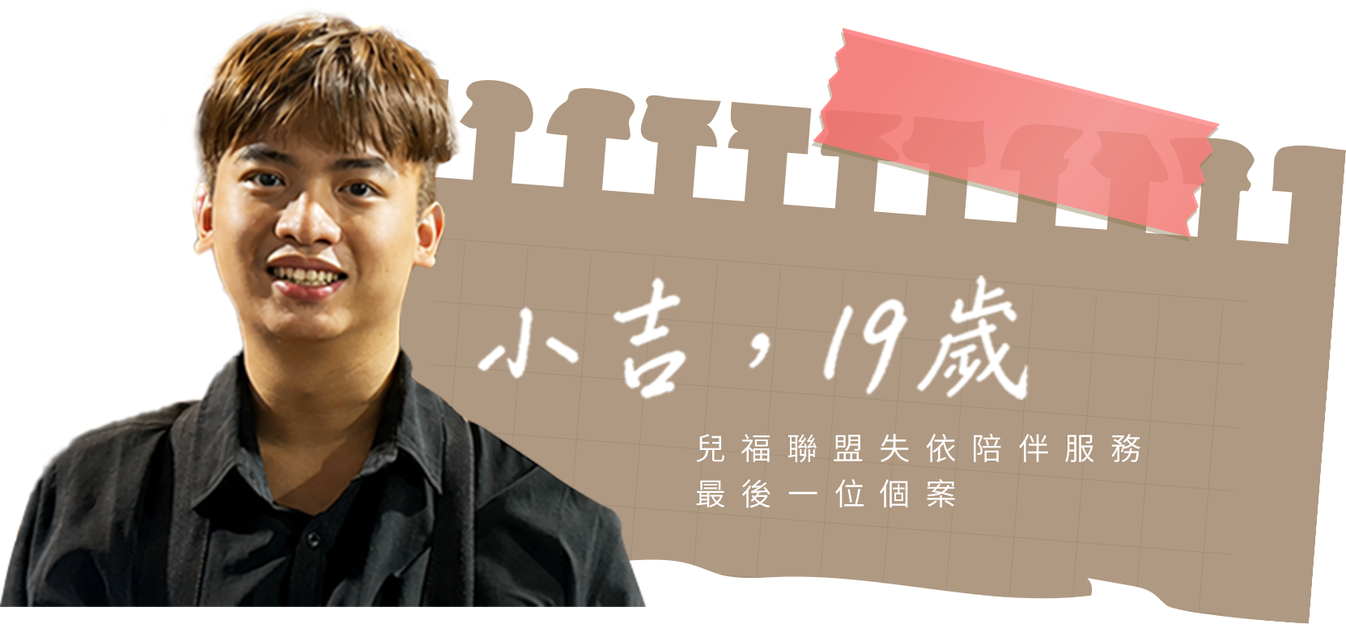
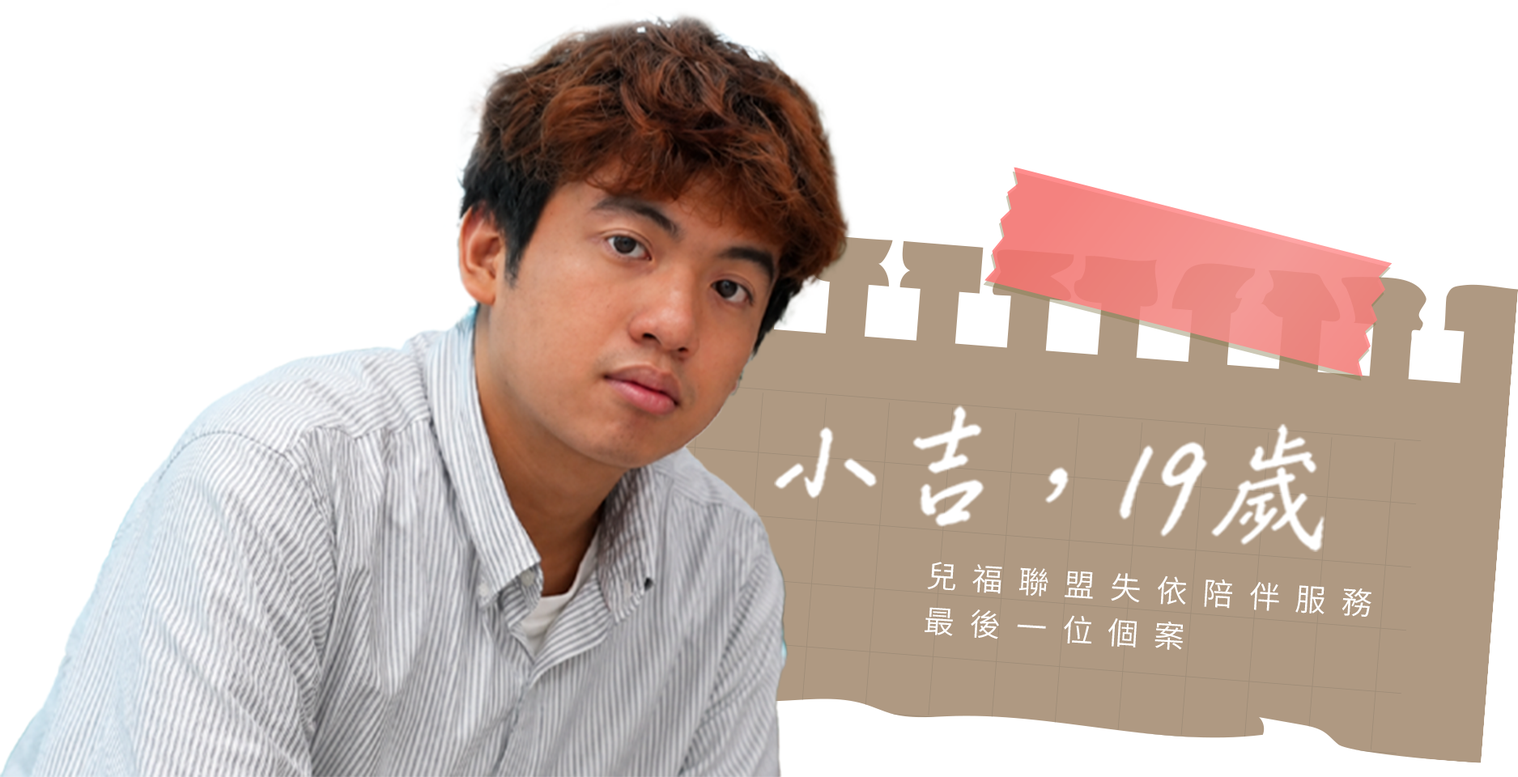
feat(flyfree): deploy v4 (2026-06-25 16:18 source)
- sync latest OD index.html (expanded content, 16 data-file photos) + assets
- light-compressed: 99MB → 51MB; 0 broken photos

diff --git a/flyfree/index.html b/flyfree/index.html
@@ -175,7 +175,7 @@ section{position:relative}
   max-width:22ch;text-shadow:0 6px 50px rgba(0,0,0,.7)}
 .cut__quote cite{display:block;margin-top:22px;font-style:normal;font-size:16px;letter-spacing:.18em;color:var(--accent-2)}
 /* 曙光擦除：災難→復原的轉場高潮（暖光由下而上抹過、風暴退場、暗轉亮）。單一變數 --dp(0→1) 由捲動驅動 */
-.cut--pivot{--storm:calc(.62*(1 - var(--dp,0)))}
+.cut--pivot{--storm:calc(.62*(1 - var(--dp,0)));height:57vh;min-height:360px}
 .cut--pivot .dawn-wipe{position:absolute;inset:0;z-index:3;pointer-events:none;will-change:transform;
   transform:translateY(calc((1 - var(--dp,0)) * 100%));
   background:linear-gradient(0deg,#f7f1e7 0%,#f7f1e7 32%,rgba(247,241,231,.94) 55%,rgba(247,241,231,.5) 72%,rgba(247,241,231,.16) 87%,transparent 100%)}
@@ -620,7 +620,7 @@ footer .top-link:hover{border-color:var(--accent)}
   <a href="#s5"><span>孝慈十年磨一劍</span></a>
   <a href="#dataviz"><span>17年的軌跡</span></a>
   <a href="#feature"><span>養出「悲復力」</span></a>
-  <a href="#qa"><span>風災Q&A</span></a>
+  <a href="#qa"><span>風災Q&amp;A</span></a>
 </nav>
 
 <style>
@@ -789,7 +789,7 @@ body.at-hero #cnav{opacity:0!important;pointer-events:none!important}body.at-her
   <div class="photo cut__img" data-speed="0.5" data-cap="981015陸軍官校的玩具圖書館.JPG"><div class="grain"></div><div class="vignette"></div></div>
   <div class="dawn-wipe" aria-hidden="true"></div>
   <div class="dawn-bloom" aria-hidden="true"></div>
-  <div class="cut__quote"><div class="reveal"><img loading="lazy" decoding="async" class="cut-quote-img reveal" src="assets/titles/首頁-繪本與教具.png" alt="帶著繪本與教具，在收容所裡為孩子撐起一塊秩序。" style="display:block;width:100%;max-width:min(94%,520px);height:auto;margin:0 auto;filter:brightness(0) invert(1) drop-shadow(0 2px 8px rgba(0,0,0,.55))">
+  <div class="cut__quote"><div class="reveal"><img loading="lazy" decoding="async" class="cut-quote-img reveal" src="assets/titles/小標題-繪本與教具.png" alt="帶著繪本與教具，在收容所裡為孩子撐起一塊秩序。" style="display:block;width:100%;max-width:min(94%,520px);height:auto;margin:0 auto;filter:brightness(0) invert(1) drop-shadow(0 2px 8px rgba(0,0,0,.55))">
     <cite style="color:#fff;text-shadow:0 2px 8px rgba(0,0,0,.55)">兒盟・受災兒童服務</cite></div></div>
 </section>
 
@@ -798,10 +798,10 @@ body.at-hero #cnav{opacity:0!important;pointer-events:none!important}body.at-her
 
 <!-- ③-1 小吉 -->
 <article class="story block" id="s1" data-od-id="story-1">
-  <div class="wrap narrow story__head">
+  <div class="wrap narrow story__head" style="padding-top: 0px;">
     <img class="profile-img reveal" data-od-id="profile-1" src="assets/profiles/小吉_profile.png" alt="小吉 個案小檔案">
     <img loading="lazy" decoding="async" class="story-title-img reveal d1" src="assets/titles/小吉-文章標題@2x.png" alt="衝突摩擦長出親情，沒有哆啦A夢，他卻有「大雄」來幫忙">
-    <div class="video-chip reveal d1"><span class="play"><svg viewBox="0 0 24 24"><path d="M8 5v14l11-7z"></path></svg></span>觀看小吉的 10 秒短片　<em>影片連結待補</em></div>
+    <div class="reveal d1" style="margin:34px auto 32px;max-width:720px;aspect-ratio:16/9;border-radius:12px;overflow:hidden;position:relative;background:linear-gradient(135deg,#1c1f24,#0c0e11);border:1px solid var(--border-soft);box-shadow:0 22px 52px rgba(0,0,0,.4);display:flex;align-items:center;justify-content:center;cursor:pointer"><span style="width:76px;height:76px;border-radius:50%;background:rgba(201,100,66,.94);display:flex;align-items:center;justify-content:center;box-shadow:0 10px 26px rgba(0,0,0,.45)"><svg viewBox="0 0 24 24" width="32" height="32" fill="#fff" style="margin-left:5px"><path d="M8 5v14l11-7z"></path></svg></span><span style="position:absolute;left:18px;bottom:14px;color:rgba(244,238,228,.74);font-size:16px;letter-spacing:.04em">小吉的 10 秒短片・影片待嵌入</span></div>
     <p class="body reveal d2">我今年19歲，目前就讀台灣大學公衛系。莫拉克風災重創小林村，我的阿嬤、爸爸媽媽跟姊姊不幸離世。那年我才三歲，還在唸幼幼班的年紀，先讓叔叔撫養，後來又轉給三姑姑，最後才交到住杉林鄉的阿伯（伯父）家。</p>
     <p class="body reveal">阿伯管我很嚴，那時特別討厭跟他住在一起。有次他帶我到山下伯母家，我就在那住了快一年。但伯母工作忙，所以我必須在安親班待到七點才能回家，才小四就覺得壓力很大，作業寫到半夜11點還寫不完。那時很想回到杉林過野孩子的生活，所以五年級過後還是回來跟阿伯一起住。</p>
   </div>
@@ -826,16 +826,17 @@ body.at-hero #cnav{opacity:0!important;pointer-events:none!important}body.at-her
       <div class="photo" data-cap="小吉家庭合照"><div class="grain"></div></div>
       <div class="photo" data-cap="小吉普門中學當志工1"><div class="grain"></div></div>
     </div>
+    <div class="reveal" style="text-align:center;margin-top:26px"><a href="#" style="display:inline-block;text-decoration:none"><img loading="lazy" decoding="async" src="assets/titles/完整影片請看-變色@2x.png" alt="完整影片請看" style="display:block;height:auto;width:auto;max-width:280px"></a></div>
 
   </div>
 </article>
 
 <!-- ④ 過場：小吉 —— 樂團表演襯底 + 家庭合照/普門志工小圖 + 一句話（稿單 item 4，版式同 cut-3） -->
 <section class="cut cut--family" data-od-id="cut-5">
-  <div class="photo cut__img" data-speed="0.5" data-cap="小吉近況-樂團表演"><div class="grain"></div><div class="vignette"></div></div>
+  <div class="photo cut__img" data-speed="0.5" data-cap="小吉近況-樂團表演" data-file="小吉近況-樂團表演_cut"><div class="grain"></div><div class="vignette"></div></div>
   <div class="cut__minis reveal">
   </div>
-  <img loading="lazy" decoding="async" class="cut-cap-img reveal" src="assets/titles/小吉-結語小標@3x.png" alt="兩歲失依的孩子，如今站上舞台——把走過的日子，彈成自己的歌。">
+  <img loading="lazy" decoding="async" class="cut-cap-img reveal" src="assets/titles/結尾小標語-三歲失依@2x.png" alt="三歲失依的孩子，如今站上舞台——把走過的日子，彈成自己的歌。" style="filter:none">
 </section>
 
 <!-- ③-2 大雄(社工) -->
@@ -843,7 +844,7 @@ body.at-hero #cnav{opacity:0!important;pointer-events:none!important}body.at-her
   <div class="wrap narrow story__head">
     <img class="profile-img reveal" data-od-id="profile-2" src="assets/profiles/大熊_profile.png" alt="大雄 個案小檔案">
     <img loading="lazy" decoding="async" class="story-title-img reveal d1" src="assets/titles/大雄-文章標題@2x.png" alt="災變倖存者「我沒事」的面具下，藏著厚重的悲傷">
-    <div class="video-chip reveal d1"><span class="play"><svg viewBox="0 0 24 24"><path d="M8 5v14l11-7z"></path></svg></span>觀看大雄的 10 秒短片　<em>影片連結待補</em></div>
+    <div class="reveal d1" style="margin:34px auto 32px;max-width:720px;aspect-ratio:16/9;border-radius:12px;overflow:hidden;position:relative;background:linear-gradient(135deg,#1c1f24,#0c0e11);border:1px solid var(--border-soft);box-shadow:0 22px 52px rgba(0,0,0,.4);display:flex;align-items:center;justify-content:center;cursor:pointer"><span style="width:76px;height:76px;border-radius:50%;background:rgba(201,100,66,.94);display:flex;align-items:center;justify-content:center;box-shadow:0 10px 26px rgba(0,0,0,.45)"><svg viewBox="0 0 24 24" width="32" height="32" fill="#fff" style="margin-left:5px"><path d="M8 5v14l11-7z"></path></svg></span><span style="position:absolute;left:18px;bottom:14px;color:rgba(244,238,228,.74);font-size:16px;letter-spacing:.04em">大雄・影片待嵌入</span></div>
     <p class="body reveal d2">在兒福聯盟裡，大家都叫我大雄。</p>
     <p class="body reveal">我是災變後2個月，2009年10月1日到職，前一晚先被督導派去鳳山的陸軍官校安置營區「感受第一線氛圍」。在那個收容了小林村、桃源鄉住民的緊急安置所裡，我身為新進社工，學到的第一課不是如何進行心理諮商，而是「穩定生活秩序」。</p>
     <p class="body reveal">災變儘管發生快2個月，住民們的生活依舊很混亂。大人每天忙著申請補助、找工作、處理未來房子的事，根本沒有餘力照顧身邊的孩子；而學校也因為道路中斷無法復學。我很快意識到：在物理生存與基本秩序穩定之前，所有的心理治療都是很難介入的。陪伴他們打飯、打理日常、讓生活「就定位」，才是我們的第一優先。</p>
@@ -859,7 +860,7 @@ body.at-hero #cnav{opacity:0!important;pointer-events:none!important}body.at-her
     <p class="body reveal">在陪伴的歲月裡，我最常做的就是扮演「轉譯者」和「開關」。有些個案由手足照顧，年齡相仿，生活裡常有劇烈的爭吵與攻擊行為。當哥哥憤怒地吼出：「你那麼晚回家到底在幹嘛？」或者妹妹哭喊：「你到底要我怎樣！」的時候，我必須站在中間去轉譯他們藏在攻擊底下的真心話：「我很害怕失去你，所以我很擔心你。」</p>
     <p class="body reveal">為了打開那些被緊緊鎖住的壓抑情緒，我常帶著兒盟的媒材，例如《擁抱你想念我》這本繪本，去敲孩子們的家門。</p>
     <p class="body reveal">曾有一位國中女孩，她一年搬了三、四次家，生活是很不穩定的，一直在換新環境、唸書、轉學、交新朋友，但訪視時總是笑臉迎人、貼心地說自己一切都好。表面上看起來不希望讓人擔心與牽掛，但當我們共讀那本繪本，藉由故事拉出情感連結的瞬間，她積壓多年的情緒瞬間潰堤，一邊痛哭一邊對我說：「大雄，我真的很想我媽媽……但是因為想她太痛了，我根本不敢想她。」</p>
-    <p class="body reveal">那一刻我明白，好好大哭一場，其實就是與失落和平共處的第一步。悲傷輔導最難的是「與自己和解」。有時候她們與父母的關係，那種失落的層面需要有些討論。她想媽媽，但是又不敢想她。這種想念非常沉重。我們希望透過這些方法讓她哭一場，因為她的笑容底下是「ㄍㄧㄥ」住，好好大哭一場對她們來說滿重要的。</p>
+    <p class="body reveal">那一刻我明白，好好大哭一場，其實就是與失落和平共處的第一步。悲傷輔導最難的是「與自己和解」。有時候她們與父母的關係，那種失落的層面需要有些討論。她想媽媽，但是又不敢想她，這種想念非常沉重。我們希望透過這些方法讓她哭一場，因為她的笑容底下是「ㄍㄧㄥ」住，好好大哭一場對她們來說滿重要的。</p>
     <div class="photostrip reveal">
       <div class="photo" data-cap="兒盟媒材《擁抱你想念我》" data-file="擁抱你想念我"><div class="grain"></div></div>
       <div class="photo" data-cap="小吉（左）是大雄最牽掛的個案" data-file="大雄小吉2"><div class="grain"></div></div>
@@ -875,6 +876,7 @@ body.at-hero #cnav{opacity:0!important;pointer-events:none!important}body.at-her
     <p class="body reveal"><b>學校沒教過悲傷，我們也不習慣面對親人的離去。但生命中的遺憾與悲傷，並不需要被特地鎖起來。</b>認真、踏實地過好現在的生活本身，就是對離開的親人最好的安慰與體貼。因為只要你過得好，你現在的踏實，就是與過去的愛同在。</p>
     <p class="body reveal">這份工作也徹底改變了我。以前我是個不折不扣的工作狂，但現在，我把人生切成「三個三分之一」，8小時工作、8小時睡眠，只剩下8小時可以陪家人，不希望陪家人的時間被稀釋得越來越少。</p>
     <p class="body reveal">跟悲傷的工作做了這麼長的時間，我自己也還沒有準備好怎麼跟家人好好道別。我覺得它沒有「準備好」的一天，但至少你知道怎麼跟自己的情緒好好共處。當事情發生時，你可以好好照顧你自己，不要壓抑它，或者不要過度的堅強說「我沒事」。有時候那個心情被照顧了，很多事情其實就不像你想像中那麼的困難跟嚴重。</p>
+    <div class="reveal" style="text-align:center;margin-top:26px"><a href="#" style="display:inline-block;text-decoration:none"><img loading="lazy" decoding="async" src="assets/titles/完整影片請看-變色@2x.png" alt="完整影片請看" style="display:block;height:auto;width:auto;max-width:280px"></a></div>
   </div>
 </article>
 
@@ -912,7 +914,7 @@ body.at-hero #cnav{opacity:0!important;pointer-events:none!important}body.at-her
   <div class="wrap narrow story__head">
     <img class="profile-img reveal" data-od-id="profile-3" src="assets/profiles/小亭_profile.png" alt="小亭 個案小檔案">
     <img loading="lazy" decoding="async" class="story-title-img reveal d1" src="assets/titles/小亭-文章標題@2x.png" alt="父親是我的英雄，我是父親的驕傲；隨泥流入土為安，精神長留於心">
-    <div class="video-chip reveal d1"><span class="play"><svg viewBox="0 0 24 24"><path d="M8 5v14l11-7z"></path></svg></span>觀看小亭的 10 秒短片　<em>影片連結待補</em></div>
+    <div class="reveal d1" style="margin:34px auto 32px;max-width:720px;aspect-ratio:16/9;border-radius:12px;overflow:hidden;position:relative;background:linear-gradient(135deg,#1c1f24,#0c0e11);border:1px solid var(--border-soft);box-shadow:0 22px 52px rgba(0,0,0,.4);display:flex;align-items:center;justify-content:center;cursor:pointer"><span style="width:76px;height:76px;border-radius:50%;background:rgba(201,100,66,.94);display:flex;align-items:center;justify-content:center;box-shadow:0 10px 26px rgba(0,0,0,.45)"><svg viewBox="0 0 24 24" width="32" height="32" fill="#fff" style="margin-left:5px"><path d="M8 5v14l11-7z"></path></svg></span><span style="position:absolute;left:18px;bottom:14px;color:rgba(244,238,228,.74);font-size:16px;letter-spacing:.04em">小亭・影片待嵌入</span></div>
     <p class="body reveal d2">風災那年我剛要國一升國二，那時因為爸爸當警察的關係，我們全家住在台東太麻里的警察宿舍裡。他曾經接獲民眾報案，說家裡有人抱著瓦斯桶要輕生。爸爸跟同事到現場排除狀況，我覺得他好勇敢。</p>
     <p class="body reveal">莫拉克風災來臨的那天凌晨，爸爸接到特勤通知要出任務。天快亮時，家裡響起一陣敲門聲，有人來通知說爸爸失聯、無線電聯繫不上。</p>
     <p class="body reveal">那時風雨已經非常非常大，當下想說「可能等一下就聯繫到了」、「等一下就找到人了」，我仍存有一絲希望。但時間一分一秒過去，半小時、一小時、半天、一天、兩天、三天……直升機都派出去搜救，就是找不到。最後只有找到警車，但我爸爸跟另一位警員，兩個人都找不到。</p>
@@ -943,18 +945,19 @@ body.at-hero #cnav{opacity:0!important;pointer-events:none!important}body.at-her
     <p class="body reveal">我現在結婚、當媽媽，也是生了三個孩子，很能與過去、與我的父母和解，自己成為父母，更能體會當父母的不容易。身為三寶媽，孩子常問「你比較愛誰？」愛要分成三份，才想到原來那時父母的難處與無奈。我很幸運有社工的幫助，不知道那時爸媽有沒有這樣的人來幫助他們？</p>
     <img loading="lazy" decoding="async" class="quoteimg reveal" src="assets/titles/小亭-金句@3x.png" alt="「我很幸運有社工的幫助，不知道那時爸媽，有沒有這樣的人來幫助他們？」">
     <div class="photostrip reveal">
-      <div class="photo" data-cap="小亭父親台東紀念碑-2(翻攝前台東縣長黃健庭臉書)"><div class="grain"></div></div>
+      <div class="photo" data-cap="紀念碑記載小亭父親江文祥殉職經過（翻攝前台東縣長黃健庭臉書）" data-file="小亭父親台東紀念碑-2(翻攝前台東縣長黃健庭臉書)"><div class="grain"></div></div>
       <div class="photo" data-cap="江文祥科工館立牌"><div class="grain"></div></div>
     </div>
+    <div class="reveal" style="text-align:center;margin-top:26px"><a href="#" style="display:inline-block;text-decoration:none"><img loading="lazy" decoding="async" src="assets/titles/完整影片請看-變色@2x.png" alt="完整影片請看" style="display:block;height:auto;width:auto;max-width:280px"></a></div>
   </div>
 </article>
 
 <!-- ⑧ 過場：小亭 —— 亭葶全家福襯底 + 父親紀念碑/科工館立牌小圖（稿單 item 8，版式同 cut-2） -->
 <section class="cut cut--family" data-od-id="cut-3">
-  <div class="photo cut__img" data-speed="0.5" data-cap="亭葶全家福"><div class="grain"></div><div class="vignette"></div></div>
+  <div class="photo cut__img" data-speed="0.5" data-cap="亭葶全家福" data-file="亭葶全家福_cut"><div class="grain"></div><div class="vignette"></div></div>
   <div class="cut__minis reveal">
   </div>
-  <img loading="lazy" decoding="async" class="cut-cap-img reveal" src="assets/titles/小亭-結語小標@3x.png" alt="父親的身影，留在台東的紀念碑、科工館的立牌——也留在全家福的笑容裡。" style="transform:translateX(-50%) translateY(-184px)">
+  <img loading="lazy" decoding="async" class="cut-cap-img reveal" src="assets/titles/小亭-結語小標@3x.png" alt="父親的身影，留在台東的紀念碑、科工館的立牌——也留在全家福的笑容裡。" style="left:auto;right:clamp(24px,4vw,64px);bottom:clamp(28px,6vh,64px);transform:none">
 </section>
 
 <!-- ③-4 小詩 -->
@@ -962,9 +965,9 @@ body.at-hero #cnav{opacity:0!important;pointer-events:none!important}body.at-her
   <div class="wrap narrow story__head">
     <img class="profile-img reveal" data-od-id="profile-4" src="assets/profiles/小詩_profile.png" alt="小詩 個案小檔案">
     <img loading="lazy" decoding="async" class="story-title-img reveal d1" src="assets/titles/小詩-文章標題@2x.png" alt="媽媽的叮嚀，竟成最後一次通話；《想念，再見》讓我轉念看生死">
-    <div class="video-chip reveal d1"><span class="play"><svg viewBox="0 0 24 24"><path d="M8 5v14l11-7z"></path></svg></span>觀看小詩的 10 秒短片　<em>影片連結待補</em></div>
+    <div class="reveal d1" style="margin:34px auto 32px;max-width:720px;aspect-ratio:16/9;border-radius:12px;overflow:hidden;position:relative;background:linear-gradient(135deg,#1c1f24,#0c0e11);border:1px solid var(--border-soft);box-shadow:0 22px 52px rgba(0,0,0,.4);display:flex;align-items:center;justify-content:center;cursor:pointer"><span style="width:76px;height:76px;border-radius:50%;background:rgba(201,100,66,.94);display:flex;align-items:center;justify-content:center;box-shadow:0 10px 26px rgba(0,0,0,.45)"><svg viewBox="0 0 24 24" width="32" height="32" fill="#fff" style="margin-left:5px"><path d="M8 5v14l11-7z"></path></svg></span><span style="position:absolute;left:18px;bottom:14px;color:rgba(244,238,228,.74);font-size:16px;letter-spacing:.04em">小詩・影片待嵌入</span></div>
     <p class="body reveal d2">如果把記憶撥回2009年的那個夏天，我依然能清晰地感受到那場驚心動魄的暴風雨。</p>
-    <p class="body reveal">那一年，我17歲，正要升高三。因為學校暑修的關係，我獨自住在六龜高中的宿舍裡。颱風來襲前2天，我在宿舍裡接到媽媽打來的電話：<b>「颱風要來了，交通也不方便，你這週末就先待在學校，不要回來了。」</b></p>
+    <p class="body reveal">那一年，我17歲，正要升高三。因為學校暑修的關係，我獨自住在路竹高中的宿舍裡。颱風來襲前2天，我在宿舍裡接到媽媽打來的電話：<b>「颱風要來了，交通也不方便，你這週末就先待在學校，不要回來了。」</b></p>
     <p class="body reveal">當時的我並不知道，那竟然是我這輩子最後一次聽到媽媽的聲音。是不是冥冥之中，媽媽的電話讓我躲過小林村土石流災難。颱風停課2天，才收到國小同學通知我，小林村的狀況不是很好，我聽了一頭霧水，因為當時新聞都沒有報導，是真的嗎？</p>
     <p class="body reveal">多希望那是一場夢。那場災難，奪走了我<b>15位至親</b>。我的阿公、阿嬤、爸爸、媽媽、可愛的弟弟，還有叔叔、姑姑一家人，全都被留在了那座山裡。原本熱鬧的大聚落，最後只剩下我和住在高雄、年紀最小的叔叔。</p>
     <p class="body reveal">那時我還在讀高中，叔叔則成了我的監護人，幫未成年的我跑遍所有繁雜的法律程序。但事實上，他同樣面對父母、手足與下一輩的離世，心裡承受的悲傷又更大。叔叔一度動了輕生的念頭，幸好嬸嬸與堂妹日夜陪伴他，才撐了過來。</p>
@@ -984,6 +987,7 @@ body.at-hero #cnav{opacity:0!important;pointer-events:none!important}body.at-her
     <p class="body reveal">雖然爸爸媽媽與弟弟離開我，但我的人生中，丈夫與2個兒子進來填補空缺，很巧的是小兒子出生日期，剛好就是8月8日，我沒有強求，孩子在這天呱呱落地，一切都是緣分。</p>
     <p class="body reveal">「你好，他們也會好」，把自己過得很好，就是對逝者最大的安慰。現在，我每年過年或有空時，還是會回山上走走，祭拜天上的家人。如果此時此刻，能對天上的爸爸、媽媽和弟弟說話，我想帶著微笑告訴他們：</p>
     <img loading="lazy" decoding="async" class="quoteimg reveal" src="assets/titles/小詩-我過得很好.png" alt="「爸爸、媽媽、弟弟，我現在過得很好，有了疼我的先生和兩個可愛的孩子，你們在天上不用擔心我了。」">
+    <div class="reveal" style="text-align:center;margin-top:26px"><a href="#" style="display:inline-block;text-decoration:none"><img loading="lazy" decoding="async" src="assets/titles/完整影片請看-變色@2x.png" alt="完整影片請看" style="display:block;height:auto;width:auto;max-width:280px"></a></div>
   </div>
 </article>
 
@@ -1000,7 +1004,7 @@ body.at-hero #cnav{opacity:0!important;pointer-events:none!important}body.at-her
   <div class="wrap narrow story__head">
     <img class="profile-img reveal" data-od-id="profile-5" src="assets/profiles/孝慈_profile.png" alt="孝慈 個案小檔案">
     <img loading="lazy" decoding="async" class="story-title-img reveal d1" src="assets/titles/孝慈-文章標題@2x.png" alt="大腦「跳電」用麻木隔絕痛苦，社工接住情緒，十年磨一劍">
-    <div class="video-chip reveal d1"><span class="play"><svg viewBox="0 0 24 24"><path d="M8 5v14l11-7z"></path></svg></span>觀看孝慈的 10 秒短片　<em>影片連結待補</em></div>
+    <div class="reveal d1" style="margin:34px auto 32px;max-width:720px;aspect-ratio:16/9;border-radius:12px;overflow:hidden;position:relative;background:linear-gradient(135deg,#1c1f24,#0c0e11);border:1px solid var(--border-soft);box-shadow:0 22px 52px rgba(0,0,0,.4);display:flex;align-items:center;justify-content:center;cursor:pointer"><span style="width:76px;height:76px;border-radius:50%;background:rgba(201,100,66,.94);display:flex;align-items:center;justify-content:center;box-shadow:0 10px 26px rgba(0,0,0,.45)"><svg viewBox="0 0 24 24" width="32" height="32" fill="#fff" style="margin-left:5px"><path d="M8 5v14l11-7z"></path></svg></span><span style="position:absolute;left:18px;bottom:14px;color:rgba(244,238,228,.74);font-size:16px;letter-spacing:.04em">孝慈・影片待嵌入</span></div>
     <p class="body reveal d2">從民國101年進到兒福聯盟開始，我先後陪伴19位八八風災中失去至親的孩子，其中有11位更是父母雙亡的失依兒。看著他們從小學三年級一路蹣跚長大到成年，這些故事，也深深雕刻了我的人生。</p>
     <p class="body reveal">失依兒少的服務最主要是家庭拜訪，孩子被親戚收養、到另一個環境生活，在「家規」這件事就需要很多的磨合。我曾陪伴過一位男孩，高職時身邊的朋友個個都有機車，他也渴望有一台，但相依為命的阿嬤堅守「未成年不能騎車」的安全底線。男孩每次跟朋友出去玩，不是得央求別人載，就是得騎著腳踏車在後面苦苦跟著，讓他覺得既丟臉又不公平。</p>
   </div>
@@ -1031,6 +1035,7 @@ body.at-hero #cnav{opacity:0!important;pointer-events:none!important}body.at-her
     <p class="body reveal">談完之後，舅舅有一種豁然開朗的感覺，他會覺得說：「哇！原來這些都是很正常的，只是我們不懂他。」接下來可以怎麼樣去做跟幫忙，我覺得雖然沒有到十年，但有「磨出一劍」的那個感覺。</p>
     <p class="body reveal">現在，這些孩子都已經平安長大、成年了。回首這條路，我想對他們每一個人說：</p>
     <p class="pullquote reveal">「謝謝你們當年如此勇敢，<br>願意讓社工走進你們的生命裡，<br>讓我們有機會一起走過那段最黑暗的泥濘。」</p>
+    <div class="reveal" style="text-align:center;margin-top:26px"><a href="#" style="display:inline-block;text-decoration:none"><img loading="lazy" decoding="async" src="assets/titles/完整影片請看-變色@2x.png" alt="完整影片請看" style="display:block;height:auto;width:auto;max-width:280px"></a></div>
   </div>
 </article>
 
@@ -1072,7 +1077,7 @@ body.at-hero #cnav{opacity:0!important;pointer-events:none!important}body.at-her
       <img loading="lazy" decoding="async" class="hand-img hi-quote reveal" src="assets/titles/滋養-不用結案@3x.png" alt="「如果我表現得不好，是不是就可以不用結案？」">
       <p class="body reveal" style="text-align:center;max-width:50ch;margin-inline:auto">個案畢業前的一句撒嬌，印證了最深厚的信任。</p>
       <p class="body reveal" style="text-align:center;max-width:54ch;margin-inline:auto">曾經瓦礫中的小樹苗，如今已長成適應人際的青少年、他鄉求學的大學生、成家立業的父母，以及穩定就業的社會新鮮人。</p>
-      <img loading="lazy" decoding="async" class="hand-img hi-close reveal" src="assets/titles/17年歷程滋養愛與韌性_圖表_01.jpg" alt="17 年歷程・滋養愛與韌性圖表" style="max-width:none;width:min(1175px,94vw);margin-left:50%;transform:translateX(-50%)">
+      <img loading="lazy" decoding="async" class="hand-img hi-close reveal" src="assets/titles/17年歷程滋養愛與韌性_圖表_02.jpg" alt="17 年歷程・滋養愛與韌性圖表" style="max-width:none;width:min(1175px,94vw);margin-left:50%;transform:translateX(-50%)">
     </div>
   </div>
 </section>
@@ -1175,14 +1180,7 @@ body.at-hero #cnav{opacity:0!important;pointer-events:none!important}body.at-her
     <p class="body reveal">兒盟南區社工處副處長黃英琪接受NOWNEWS專訪，回憶當時同仁進駐建立臨時遊戲區師法有據，根據聯合國兒童基金會（The United Nations Children's Fund）1999年因應科索沃戰爭，所提出「兒童友善空間」概念，孩童在面臨天災戰爭等危險狀態下內心極脆弱，若獲即時安頓，復原力就會長出來。從安頓生活到培養悲復力，兒盟更擘劃心靈陪伴藍圖，直到孩子成年。</p>
     <h3 class="subhead reveal">17年陪伴藍圖：1725次訪視、<br>19.5萬公里訪視里程</h3>
     <p class="body reveal">然而，這幅陪伴藍圖長達17年之久，經歷政黨輪替與三任總統改選，從馬英九、蔡英文乃至於賴清德。據兒盟統計，八八風災迄今，陪伴77位失依（父母雙亡）或喪親（父或母一方仍在）兒少成年，累積1725次訪視、19.5萬公里訪視里程，相當於台灣環島171次、繞行地球4.88圈，直到個案們成家立業、最後一名個案將於2026年9月滿20歲，計畫宣告「畢業」結案。</p>
-    <div class="stages reveal">
-      <div class="stage"><div class="stage-head"><h4>災變緊急任務化</h4><span class="stage-ico"><img src="assets/stage-ico-1.png" alt="" loading="lazy" decoding="async"></span></div>
-        <div class="stage-body"><p><span style="display:inline-block;font-weight:700;font-size:1.06em;letter-spacing:.04em;margin-bottom:7px">98年~103年</span><br>安置555人次、服務逾4,472人次<br>兒童遊樂空間服務逾萬人次<br>補助24校45社團、11,766人次</p></div></div>
-      <div class="stage"><div class="stage-head"><h4>原鄉服務在地化</h4><span class="stage-ico"><img src="assets/stage-ico-2.png" alt="" loading="lazy" decoding="async"></span></div>
-        <div class="stage-body"><p><span style="display:inline-block;font-weight:700;font-size:1.06em;letter-spacing:.04em;margin-bottom:7px">104年~110年</span><br>桃源工作站業務轉型<br>育兒支持+兒少關懷<br>累積入站逾4萬人次</p></div></div>
-      <div class="stage"><div class="stage-head"><h4>兒少陪伴不中斷</h4><span class="stage-ico"><img src="assets/stage-ico-3.png" alt="" loading="lazy" decoding="async"></span></div>
-        <div class="stage-body"><p><span style="display:inline-block;font-weight:700;font-size:1.06em;letter-spacing:.04em;margin-bottom:7px">110年~115年</span><br>15年以上不間斷陪伴<br>見證個案畢業與成長<br>115年77案全數結案</p></div></div>
-    </div>
+    <img loading="lazy" decoding="async" class="reveal" src="assets/titles/主稿內圖表_01.jpg" alt="兒盟三階段服務架構圖表" style="display:block;height:auto;max-width:none;width:min(1175px,94vw);margin-left:50%;transform:translateX(-50%);margin-top:10px">
     <h3 class="subhead reveal">階段一：「災變緊急任務化階段」</h3>
     <p class="body reveal">黃英琪向NOWNEWS娓娓道來，如何執行三階段陪伴藍圖。首先是「災變緊急任務化階段」，兒盟過去曾參與921地震、中國四川大地震等經驗，了解兒童在面臨災害，內心極其脆弱，帶玩具及文具親赴第一線臨時安置的高雄內門順賢宮，展開「受災兒童受災服務」，打造遊戲空間與安排魔術表演等輕鬆活動，並透過畫冊等方式，讓孩童們抒發心情，讓他們失去家園、親人混沌之際，安頓其身心。</p>
     <p class="body reveal">除安頓兒少之外，由於風災摧毀多處校園，當時全台有超過1300位學生需要被安置，兒盟積極協助聯繫安置處所；訪視工作也不停歇，攤開數據來看，自2009年9月8日至2010年1月31日，兒盟派出39人、502人次，志工55人100人次，總計服務家庭75戶317人，兒少97人。</p>
@@ -1253,7 +1251,7 @@ body.at-hero #cnav{opacity:0!important;pointer-events:none!important}body.at-her
   <div class="wrap">
     <div class="qa__head">
       <span class="eyebrow reveal" style="justify-content:center;display:inline-flex">互動問答</span>
-      <img loading="lazy" decoding="async" class="reveal d1" data-od-id="path-11-14-0-0-1" src="assets/titles/你還記得莫拉克風災嗎@3x.png" alt="你還記得莫拉克風災嗎？" style="display:block;height:auto;max-width:min(94%,560px);margin:14px auto 12px">
+      <img loading="lazy" decoding="async" class="reveal d1" data-od-id="path-11-14-0-0-1" src="assets/titles/你還記得莫拉克風災嗎？@2x.png" alt="你還記得莫拉克風災嗎？" style="display:block;height:auto;max-width:min(94%,560px);margin:14px auto 12px">
       <p class="lead reveal d2" style="margin:0 auto;font-size:16px">當年傷亡慘重的災情你知道多少？一起答題，回顧這場大地的傷痕。</p>
       <div class="qa__bar reveal d2"><i id="qbar"></i></div>
     </div>
